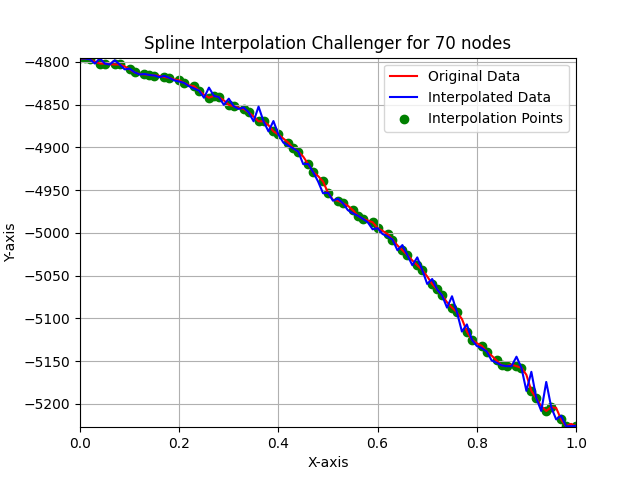
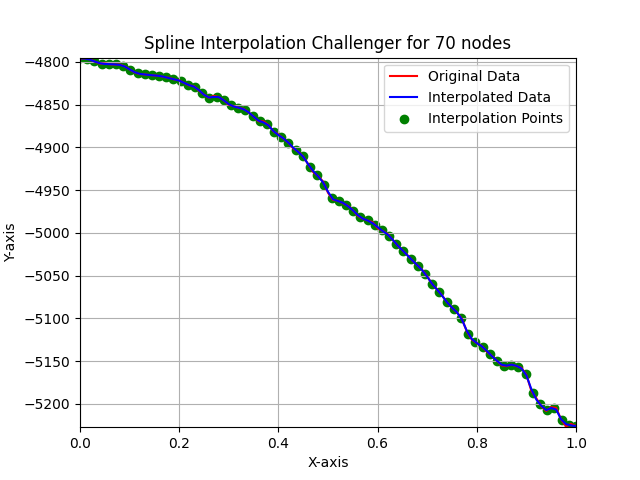
finished

diff --git a/main.py b/main.py
@@ -7,7 +7,8 @@ import matplotlib.pyplot as plt
 def plot_interpolation(x, y, interp, interpolation_points, title):
     plt.plot(x, y, 'r-', label='Original Data')
     plt.plot(x, interp, 'b-', label='Interpolated Data')
-    plt.scatter(x[interpolation_points], y[interpolation_points], color='green', label='Interpolation Points')
+    y_in = np.interp(interpolation_points, x, y)
+    plt.scatter(interpolation_points, y_in, color='green', label='Interpolation Points')
 
     # runge effect
     plt.xlim(0, 1)
@@ -48,40 +49,40 @@ def main():
     N = [10, 20, 50, 70]
 
     # Chebyshev nodes 2nd kind
-    chebyshev_nodes = []
-    for i in range(30):
-        cheb_num = np.cos(((i - 1)/29) * np.pi)
-        # scale from [-1, 1] to [0, 100]
-        cheb_num = (cheb_num*50) + 50
 
-        # round to nearest integer for index
-        cheb_num = int(round(cheb_num))
+    # print(chebyshev_nodes)
+    #cheb
+    for n in N:
+        interp = lagrange_interpolation(x, y, n, cheb=True)
+        # interpolation_points = chebyshev_nodes
 
-        chebyshev_nodes.append(cheb_num)
+        k = np.arange(1, n+1)
+        interpolation_points = (np.cos((2*k - 1) * np.pi / (2*n)) + 1) / 2.0
+        plot_interpolation(x, y, interp, interpolation_points, 'Lagrange Interpolation Chebyshev')
 
-    print(chebyshev_nodes)
     # Lagrange data
     for n in N:
         interp = lagrange_interpolation(x, y, n)
-        interpolation_points = np.linspace(0, len(x) - 1, n).astype(int)
+        # interpolation_points = np.linspace(0, len(x) - 1, n).astype(int)
+        interpolation_points = np.linspace(0, 1, n)
         plot_interpolation(x, y, interp, interpolation_points, 'Lagrange Interpolation')
 
     # Lagrange challanger
     for n in N:
         interp = lagrange_interpolation(xch, ych, n)
-        interpolation_points = np.linspace(0, len(xch) - 1, n).astype(int)
+        interpolation_points = np.linspace(0, 1, n)
         plot_interpolation(xch, ych, interp, interpolation_points, 'Lagrange Interpolation Challenger')
 
     # Spline data
     for n in N:
         interp = spline_interpolation(x, y, n)
-        interpolation_points = np.linspace(0, len(x) - 1, n).astype(int)
+        interpolation_points = np.linspace(0, 1, n)
         plot_interpolation(x, y, interp, interpolation_points, 'Spline Interpolation')
 
     # Spline challanger
     for n in N:
         interp = spline_interpolation(xch, ych, n)
-        interpolation_points = np.linspace(0, len(xch) - 1, n).astype(int)
+        interpolation_points = np.linspace(0, 1, n)
         plot_interpolation(xch, ych, interp, interpolation_points, 'Spline Interpolation Challenger')
 
 

diff --git a/lagrange.py b/lagrange.py
@@ -5,20 +5,15 @@ def lagrange_interpolation(x, y, N = 10, cheb = False):
     # select N interpolation points
     index = []
     if cheb:
-        for i in range(N):
-            cheb_num = np.cos(((i - 1)/N - 1) * np.pi)
-            # scale from [-1, 1] to [0, 100]
-            cheb_num = (cheb_num*50) + 50
-
-            # round to nearest integer for index
-            cheb_num = int(round(cheb_num))
-
-            index.append(cheb_num)
+        k = np.arange(1, N+1)
+        index = (np.cos((2*k - 1) * np.pi / (2*N)) + 1) / 2.0
+        print(index)
     else:
-        index = np.linspace(0, len(x) - 1, N).astype(int)
-    print(index)
-    x_points = x[index]
-    y_points = y[index]
+        # index = np.linspace(0, len(x) - 1, N).astype(int)
+        index = np.linspace(0, 1, N)
+    # print(index)
+    x_points = index
+    y_points = np.interp(x_points,x, y)
 
     y_res = np.zeros(len(x))
 

diff --git a/spline.py b/spline.py
@@ -3,10 +3,13 @@ import numpy as np
 
 def spline_interpolation(x, y, N = 3):
 
-    index = np.linspace(0, len(x) - 1, N).astype(int)
+    # index = np.linspace(0, len(x) - 1, N).astype(int)
+    index = np.linspace(0, 1, N)
     # print(index)
-    x_points = x[index]
-    y_points = y[index]
+    # x_points = x[index]
+    # y_points = y[index]
+    x_points = index
+    y_points = np.interp(x_points, x, y)
     h = x_points[1] - x_points[0]
     # x_points = [1, 3, 5]
     # h = 2
